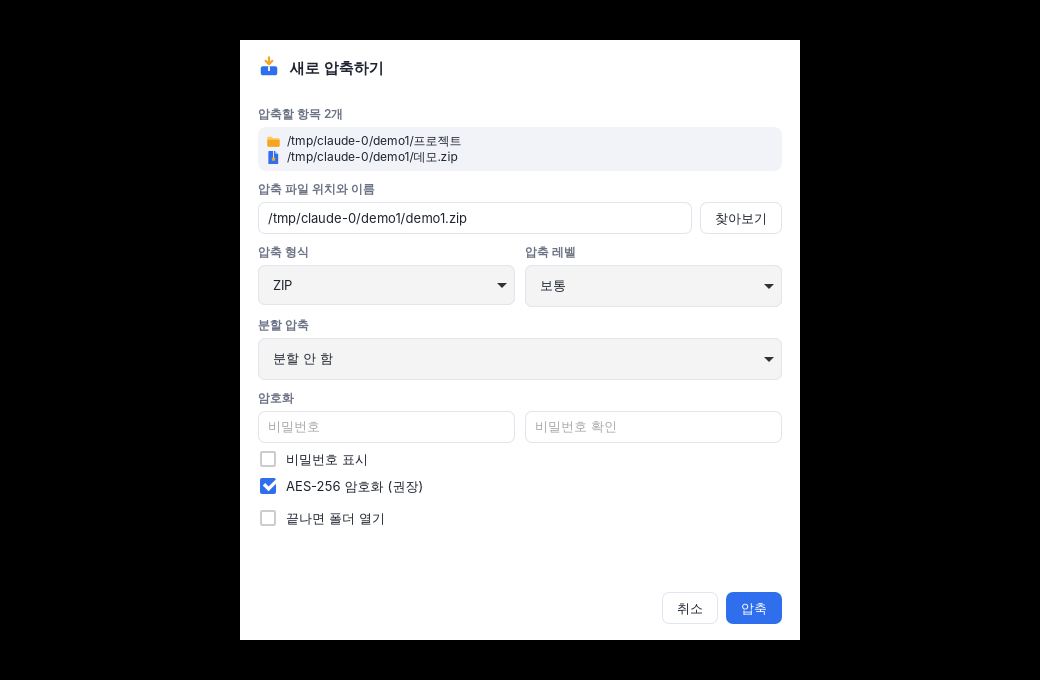
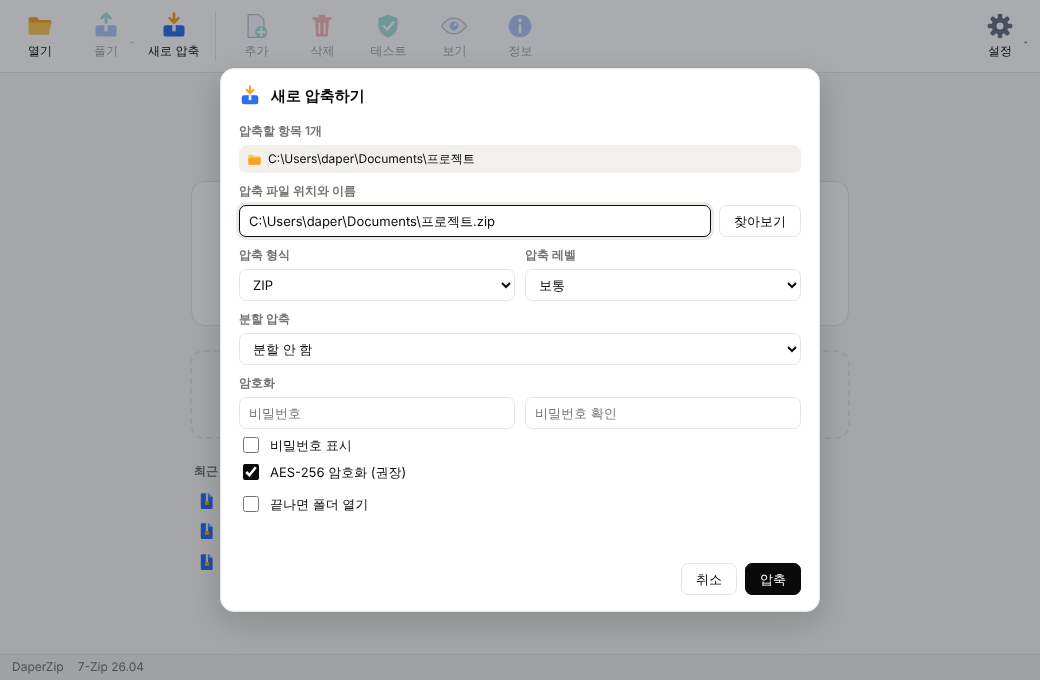
style(app): match dapercorp.com theme and refresh screenshots
- Switch the UI palette from blue to the monochrome ink/paper palette (light and dark)
- Keep the OS system font stack (no bundled font)
- Regenerate docs and website screenshots from the new UI

Claude-Session: https://claude.ai/code/session_013PSJnuD8PgthdckstAyFGm

diff --git a/ui/style.css b/ui/style.css
@@ -1,35 +1,36 @@
 :root {
-  --bg: #f6f7fb;
+  /* Monochrome ink/paper palette, same as dapercorp.com and the DaperZip website */
+  --bg: #f7f6f2;
   --panel: #ffffff;
-  --panel-2: #f1f3f8;
-  --line: #e2e5ee;
-  --text: #1f2430;
-  --muted: #6b7385;
-  --accent: #2f6fed;
-  --accent-soft: #e6eefe;
+  --panel-2: #f1f0ec;
+  --line: #e5e5e5;
+  --text: #0a0a0a;
+  --muted: #737373;
+  --accent: #0a0a0a;
+  --accent-soft: #ebeae5;
   --accent-text: #ffffff;
-  --sel: #dce7fd;
-  --sel-line: #9bb8f6;
-  --hover: #eef1f7;
+  --sel: #e9e7e0;
+  --sel-line: #bcb9ae;
+  --hover: #efeeea;
   --danger: #e5484d;
   --ok: #19b394;
   --warn: #f5a524;
-  --shadow: 0 10px 30px rgba(20, 30, 60, .18);
+  --shadow: 0 10px 30px rgba(10, 10, 10, .16);
   --radius: 10px;
   --row: 26px;
   color-scheme: light;
 }
 @media (prefers-color-scheme: dark) {
   :root:not([data-theme="light"]) {
-    --bg: #16181d; --panel: #1d2027; --panel-2: #23262e; --line: #2f333d; --text: #e6e8ee;
-    --muted: #9198a8; --accent: #5b8cff; --accent-soft: #24304d; --sel: #2a3a60; --sel-line: #4a69b0;
-    --hover: #262a33; --shadow: 0 10px 30px rgba(0, 0, 0, .5); color-scheme: dark;
+    --bg: #0a0a0a; --panel: #171717; --panel-2: #1f1f1f; --line: #2a2a2a; --text: #fafafa;
+    --muted: #a3a3a3; --accent: #fafafa; --accent-text: #0a0a0a; --accent-soft: #262626; --sel: #2a2a2a; --sel-line: #525252;
+    --hover: #212121; --shadow: 0 10px 30px rgba(0, 0, 0, .6); color-scheme: dark;
   }
 }
 :root[data-theme="dark"] {
-  --bg: #16181d; --panel: #1d2027; --panel-2: #23262e; --line: #2f333d; --text: #e6e8ee;
-  --muted: #9198a8; --accent: #5b8cff; --accent-soft: #24304d; --sel: #2a3a60; --sel-line: #4a69b0;
-  --hover: #262a33; --shadow: 0 10px 30px rgba(0, 0, 0, .5); color-scheme: dark;
+  --bg: #0a0a0a; --panel: #171717; --panel-2: #1f1f1f; --line: #2a2a2a; --text: #fafafa;
+  --muted: #a3a3a3; --accent: #fafafa; --accent-text: #0a0a0a; --accent-soft: #262626; --sel: #2a2a2a; --sel-line: #525252;
+  --hover: #212121; --shadow: 0 10px 30px rgba(0, 0, 0, .6); color-scheme: dark;
 }
 
 * { box-sizing: border-box; }
@@ -197,7 +198,7 @@ svg.i { width: 1em; height: 1em; flex: none; }
 .src-list svg { width: 15px; height: 15px; }
 
 .progress { height: 8px; border-radius: 4px; background: var(--panel-2); overflow: hidden; }
-.progress > div { height: 100%; width: 0; background: linear-gradient(90deg, var(--accent), #6e96ff); border-radius: 4px; transition: width .15s; }
+.progress > div { height: 100%; width: 0; background: linear-gradient(90deg, var(--accent), color-mix(in srgb, var(--accent) 55%, var(--bg))); border-radius: 4px; transition: width .15s; }
 .progress.indet > div { width: 30%; animation: indet 1.1s infinite ease-in-out; }
 @keyframes indet { from { margin-left: -30%; } to { margin-left: 100%; } }
 .prog-file { font-size: 12px; color: var(--muted); white-space: nowrap; overflow: hidden; text-overflow: ellipsis; min-height: 17px; }
